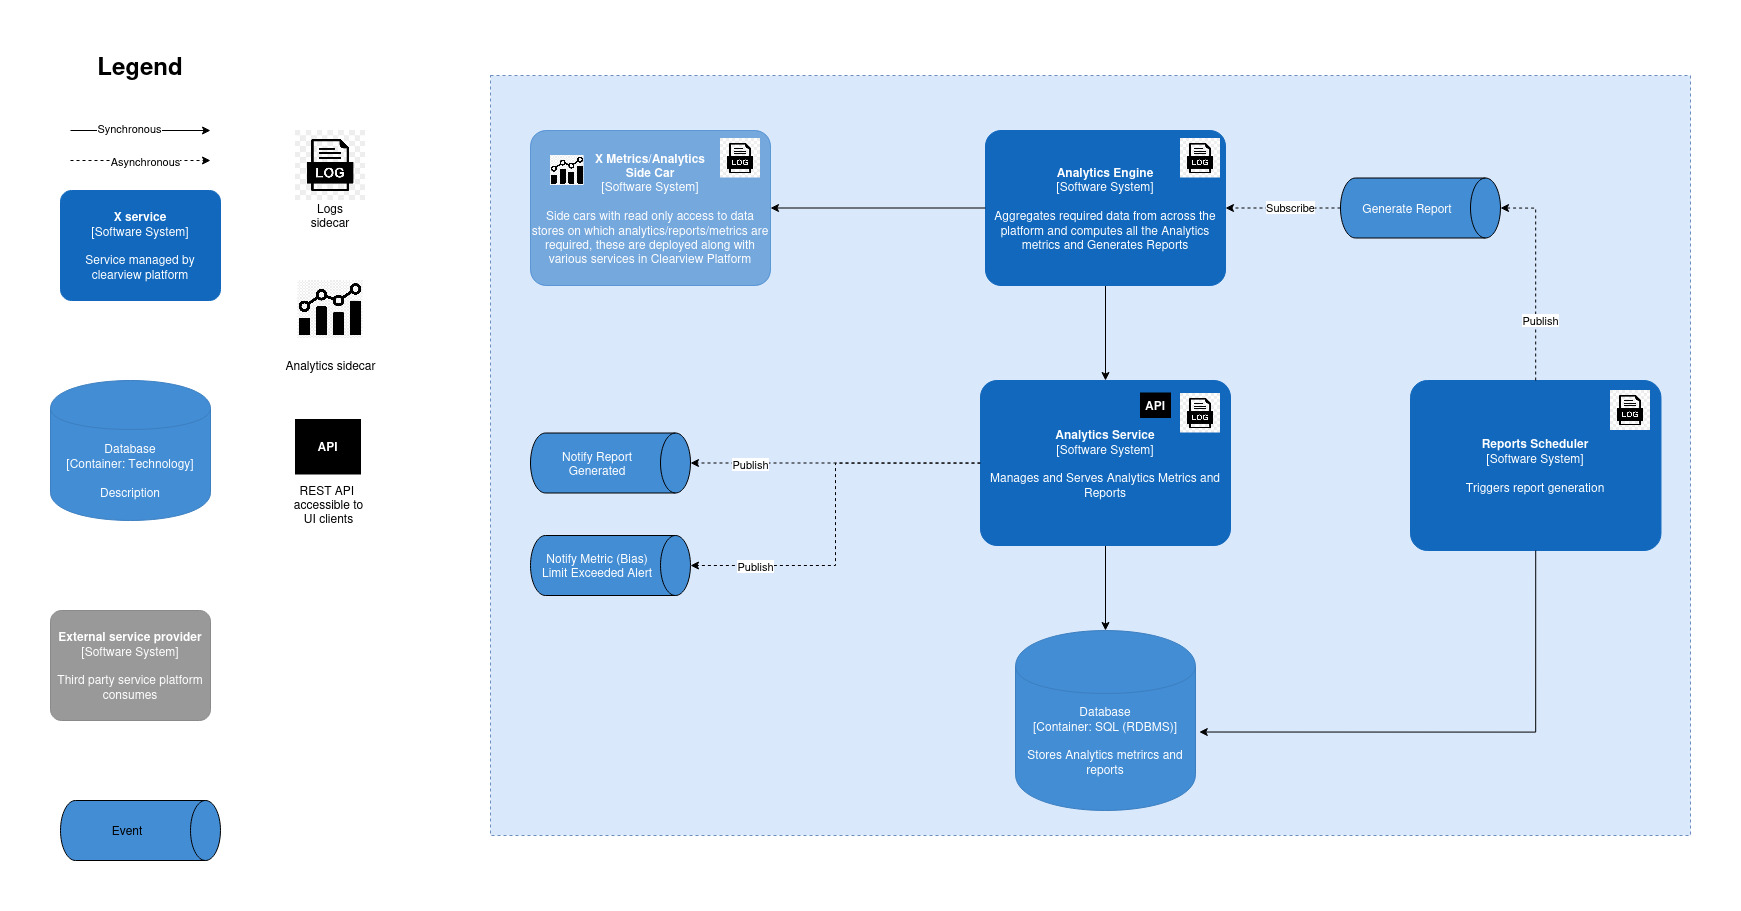
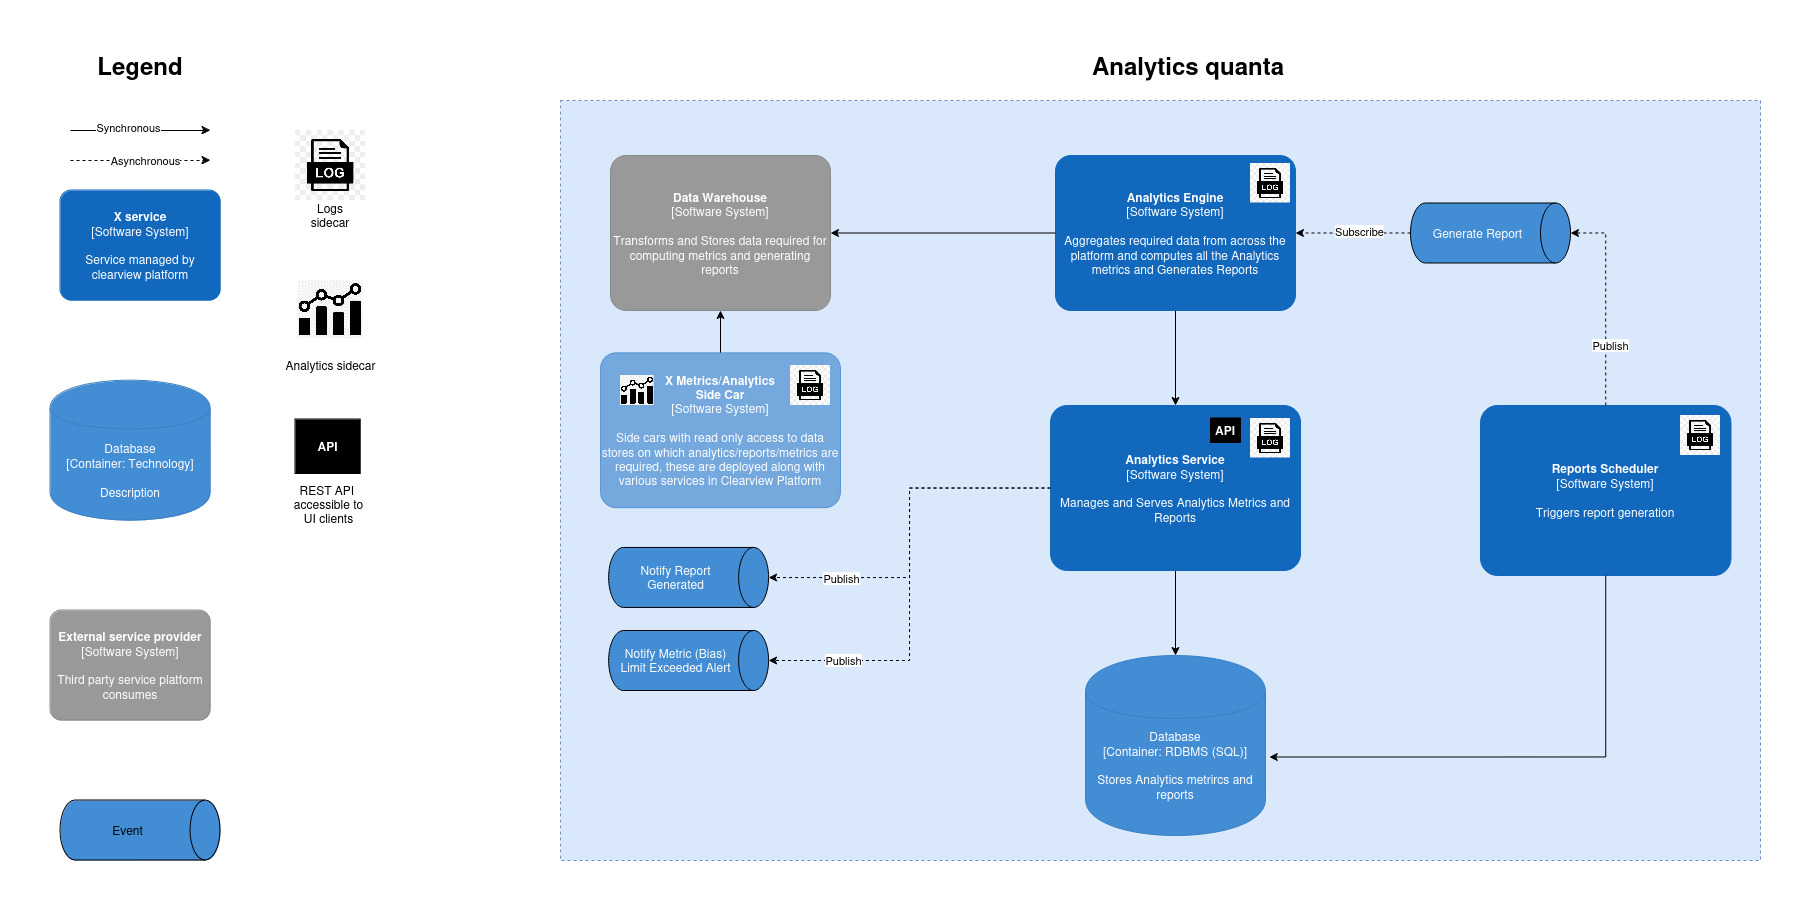
pending changes

diff --git a/ADR/adr-matching-quantum-arch-style.md b/ADR/adr-matching-quantum-arch-style.md
@@ -1,33 +1,36 @@
 # Arch style for Matching Service
+
 Date: 2024-09-29
 
 ## Status
+
 Accepted
 
 ## Context
+
 We are developing Matching services to run matching algorithm and find the matching job openings/resumes. This quanta is composed of the services that are responsible for performing the matching.
 
-![image](https://github.com/user-attachments/assets/5e9da50f-8665-4217-a960-c1c2e06486e8)
-
-
 ### Alternatives
+
 1. Event-driven
-2. Modular Monlith
+2. Modular Monolith
+3. Micro Services
 
 ### PrOACT
 
-
-| Factor | Modular Monolith | Event driven | Requirement |
-|  | ----------- | ----------- | ---------- |
-| Cost(time+money) | Low | High | Low
-| Abstraction | Low | High | High
-| Elasticity | Low        | High | High
-| Scalability | Low        | High | High
-| Performance | Medium | High | High
+| Factor           | Modular Monolith | Event driven | Micro Services | Requirement |
+| ---------------- | ---------------- | ------------ | -------------- | ----------- |
+| Cost(time+money) | Low              | High         | High           | Low         |
+| Abstraction      | Low              | High         | Low            | High        |
+| Elasticity       | Low              | High         | High           | High        |
+| Scalability      | Low              | High         | High           | High        |
+| Performance      | Medium           | High         | Low            | High        |
 
 ## Decision
+
 The Matching quantum consists of Matching service and Matching Engine. The Match Engine is a batch app that triggers on a schedule to figure out the matches. The Matching Service is service that subscribes to events and performs CRUD operations on matches. Since the Matching engine needs to be highly scalable and highly performant, it would be prudent to separate it from Matching service.
 
 ## Tradeoffs - Mitigations
-- **Cost**: Separating the services into different services might incur additional costs due to additional deployment and maintenance overhead 
-  - *Mitigation*: We could initially implement it as event based micro kernel system and then scale it upto separate it into different services post MVP.
+
+- **Cost**: Separating the services into different services might incur additional costs due to additional deployment and maintenance overhead
+  - _Mitigation_: We could initially implement it as event based modular monolith system and then scale it upto separate it into micro services post MVP.

diff --git a/quanta/matching-quanta.md b/quanta/matching-quanta.md
@@ -4,12 +4,13 @@
 
 ### Responsibilities
 
-1. Using an elaborate matching algorithm identifies relevant pairs of anonymized resumes and open job postings, and computes a matching score to quantifiably assess their compatibility.
+1. Using a hybrid (LLM + traditional) matching algorithm identifies relevant pairs of anonymized resumes and open job postings, and computes a matching score to quantifiable assess their compatibility.
 2. Creates and maintains 'Match' entities, that represent highly compatible pair of anon resume story and open job postings.
-3. Exposes Match related API endpoints.
-4. Handles the business logic related to 'Unlock' Match flow.
-5. Triggers Invoice creation and Forward full resume to external HR integration during the unlock flow.
-6. Updates Hired/Passed status and publishes relevant events for a Unlocked Match once the interview completion is reported either through API or external HR event.
+3. Batches the match operations to do the computation using the compute resources efficiently and optimally.
+4. Exposes Match related API endpoints through 'Match service' component.
+5. Handles the business logic related to 'Unlock' Match flow.
+6. Triggers Invoice creation and Forward full resume to external HR integration during the unlock flow.
+7. Updates Hired/Passed status and publishes relevant events for a Unlocked Match once the interview completion is reported either through API or external HR event.
 
 ### Driving Architectural Characteristics
 
@@ -23,8 +24,12 @@
 2. **Scalability** - The quantum should be scalable. It should be able to handle the large number of resumes and jobs in future.
 3. **Evolvability** - The matching algorithm would require incremental changes and fine tuning to meet the desired accuracy for all types of resumes and job postings.
 
+Elasticity and Cost are also important characteristics for this quanta
+
 ### Architectural Style Preferred
 
 Hybrid - Event Driven + Microservices
+
+During the MVP stage to save cost the components in this quanta could be built developed as modular monolith and then evolved over a period of time as the platform grows in size are revenue.
 
 ![Image](/assets/matching-arch-style-worksheet.jpg)

diff --git a/README.md b/README.md
@@ -42,12 +42,13 @@ TBD
 We are a passionate group of software engineers & designers from an innovation as a service organization [Zemoso](https://www.zemosolabs.com/).
 
 Team members
+
 - Saketh Kumar Kokonda
 - Avinash Marepalli
 - Srikanth Koraveni
 - Prasad G
 - Radha Agarwal
-  
+
 <a name="glossary"></a>
 
 ## Glossary
@@ -100,7 +101,7 @@ Since the proposal is a platform, the platform could be composed of several arch
 
 ## User experience
 
-The team went through a design thinking exercise to understand the Candidate, Employer and platform admin  profiles, and empathize their needs and pain points. We also created AI system golden path The following golden paths were considered:
+The team went through a design thinking exercise to understand the Candidate, Employer and platform admin profiles, and empathize their needs and pain points. We also created AI system golden path The following golden paths were considered:
 
 [Design artifacts Figma link](https://www.figma.com/design/ConOZKBKzm6d2zft0nG8Ly/Final?node-id=0-1&t=hmu76myBUZbJCPay-1)
 
@@ -157,7 +158,7 @@ sample screens
 
 Quanta identification helps in defining different parts of the platform and the scope of architectural characteristics. We followed a mixture of event storming + actor-action approach to identify aggregates, components and quanta.
 
-[Click here for more details on the exercise.](/assets/aggregate-quanta.png)
+[Click here for more details on the exercise.](/assets/aggregate-quanta.jpg)
 
 [Actor action event storming excercise](/assets/actor-action-event-storming.png)
 
@@ -168,13 +169,12 @@ For better navigation click [here](https://miro.com/app/board/uXjVLcJUnWk=/?move
 
 - [AI](/quanta/ai-quanta.md)
 - [User](./quanta/user-quanta.md)
-- [Matching](./)
+- [Matching](./quanta/matching-quanta.md)
 - [Invoice](./quanta/invoice-quanta.md)
 - [Notification](./quanta/notification-quanta.md)
 - [Integrations](./quanta/integration-quanta.md)
-
-- [Survey](./)
-- [Analytics](./)
+- [Survey](./quanta/survey-quanta.md)
+- [Analytics](./quanta/analytics-quanta.md)
 
 <a name="other-services"></a>
 

diff --git a/quanta/analytics-quanta.md b/quanta/analytics-quanta.md
@@ -7,7 +7,7 @@
 1. This quanta is responsible for aggregating required data, computing relevant metrics and generating reports.
 2. The report generation and metrics computation should happen at both periodic intervals and event based triggers.
 3. Creates and maintains 'Report' and 'Metric' entities.
-4. This quanta should not impact the core functionality of the platform. This is achieved by using analytics side cars that are deployed along with services. These side cars have read-only access to the data. They retrieve the relevant data and forward it to analytics data aggregation components.
+4. This quanta should not impact the core functionality of the platform. This is achieved by using analytics side cars that are deployed along with services. These side cars have read-only access to the data. They retrieve the relevant data and forward it to a data warehouse which is then accessed by the analytics data aggregation components.
 5. Trigger notification alerts when a metric is found to be beyond a threshold. (if configured)
 
 ### Driving Architectural Characteristics
@@ -18,7 +18,7 @@
 
 ##### Driving Architectural Characteristics
 
-1. **Elasticity** - During report generation that is done at periodic intervals large amounts of data should processed in a short interval of time.
+1. **Elasticity** - During report generation that is done at periodic intervals large amounts of data should be processed in a short interval of time.
 2. **Availability** - Should be available to trigger the alerts, periodic report generations and to serve the API endpoints.
 3. **Performance** - Metrics computation and report generation are computationally intensive tasks thus performance becomes an important characteristic for this quanta.
 
